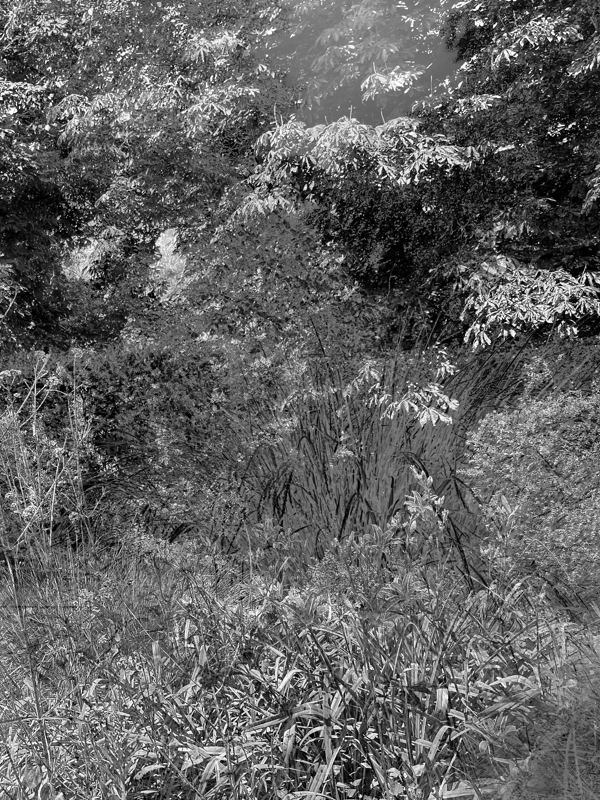
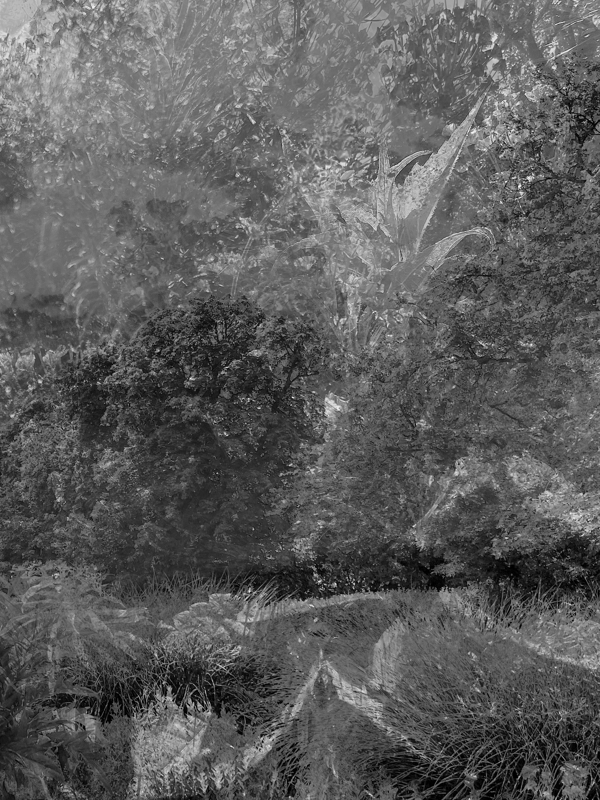
test commit

diff --git a/image_process.py b/image_process.py
@@ -48,8 +48,9 @@ for i in range(15):
     # composited1.show()
 
     solarised= PIL_processes.solarize(img3, 130)
-    # img4 = PIL_processes.PIL_invert(img4)
-    composited1 = Image.composite(composited1, solarised, img4)
+    # # img4 = PIL_processes.PIL_invert(img4)
+    composited1 = Image.composite(composited1, solarised, img3)
+
     composited1.show()
     composited1 = PIL_processes.PIL_contrast(composited1, 1.25)
 
